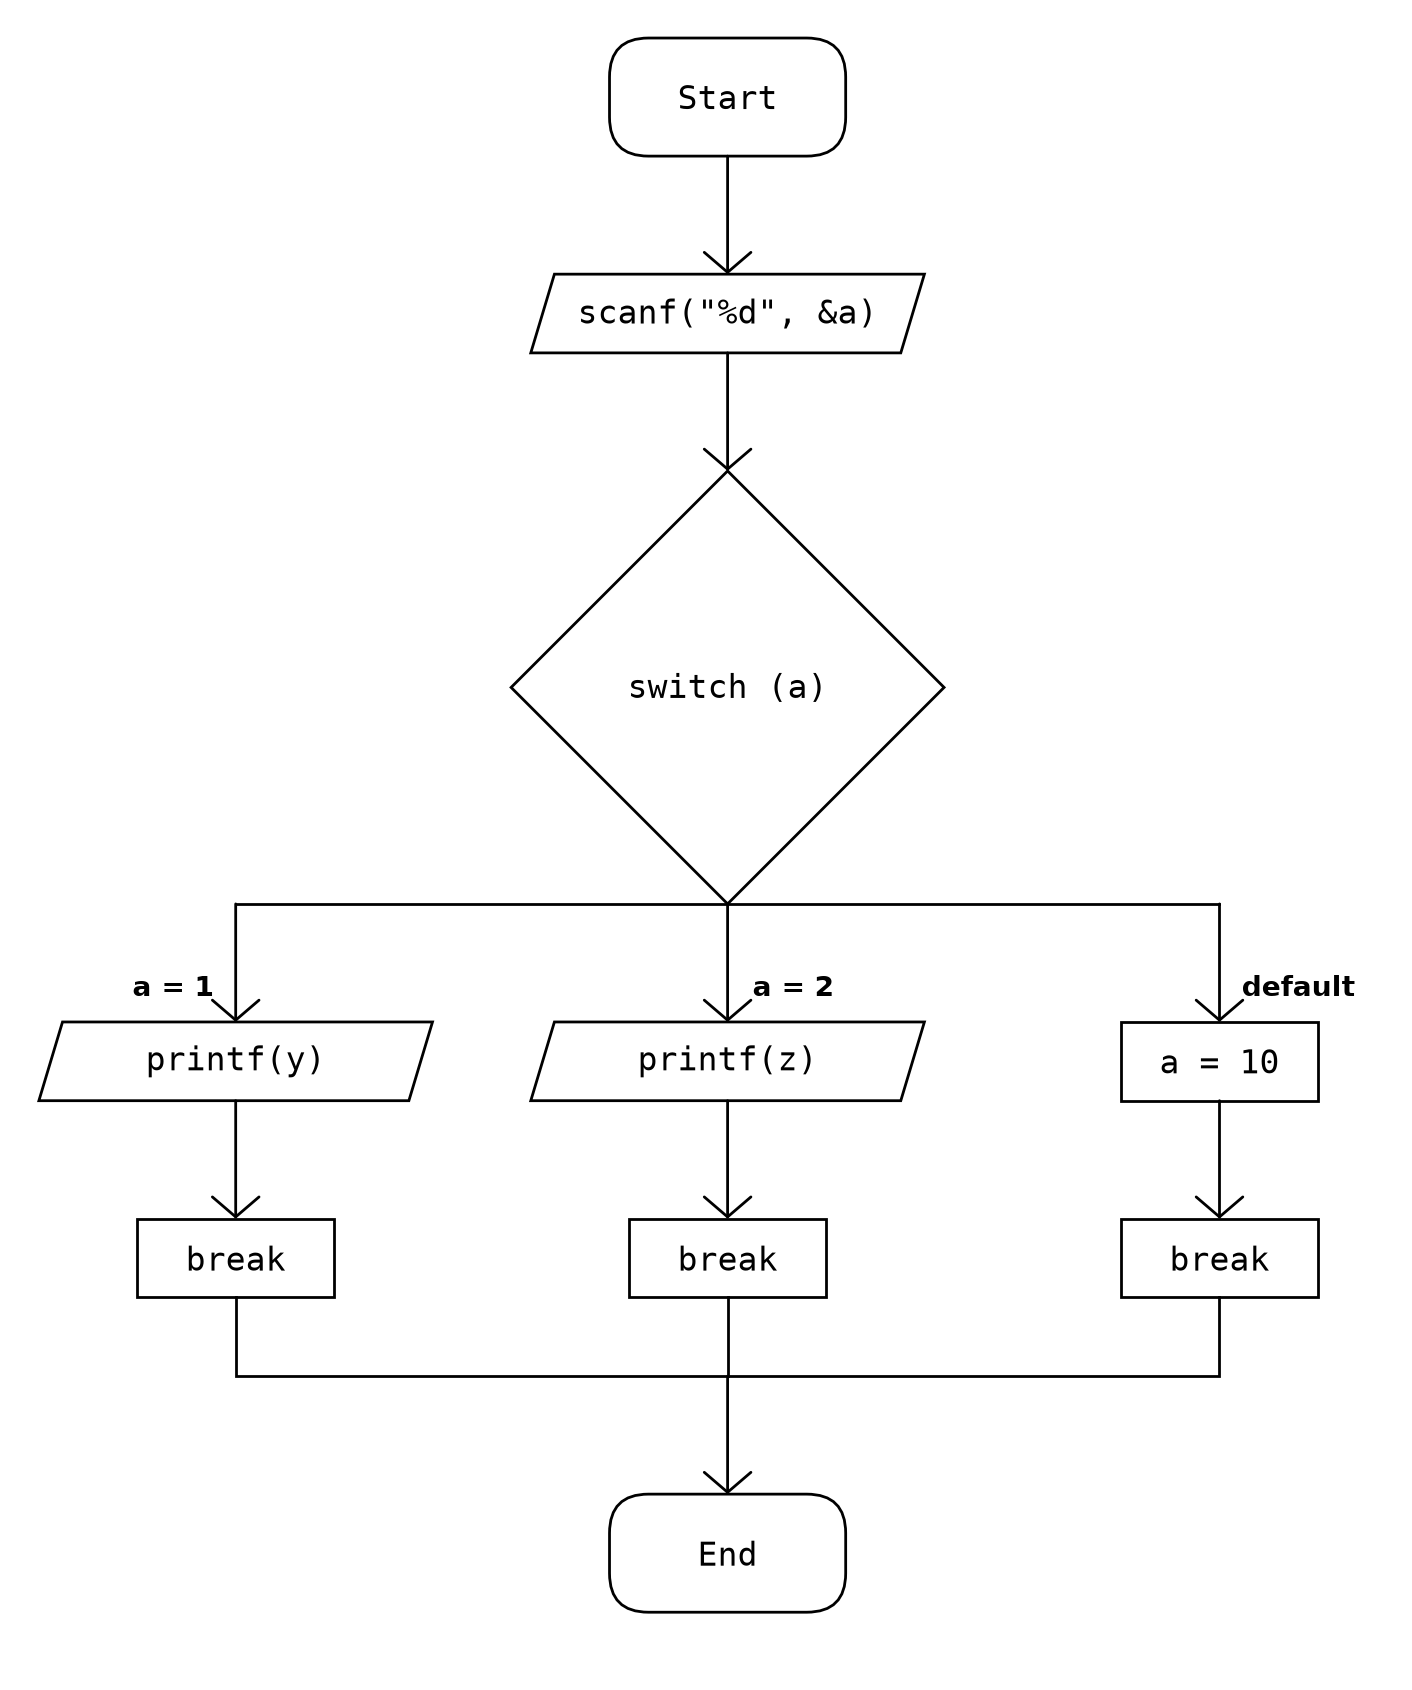
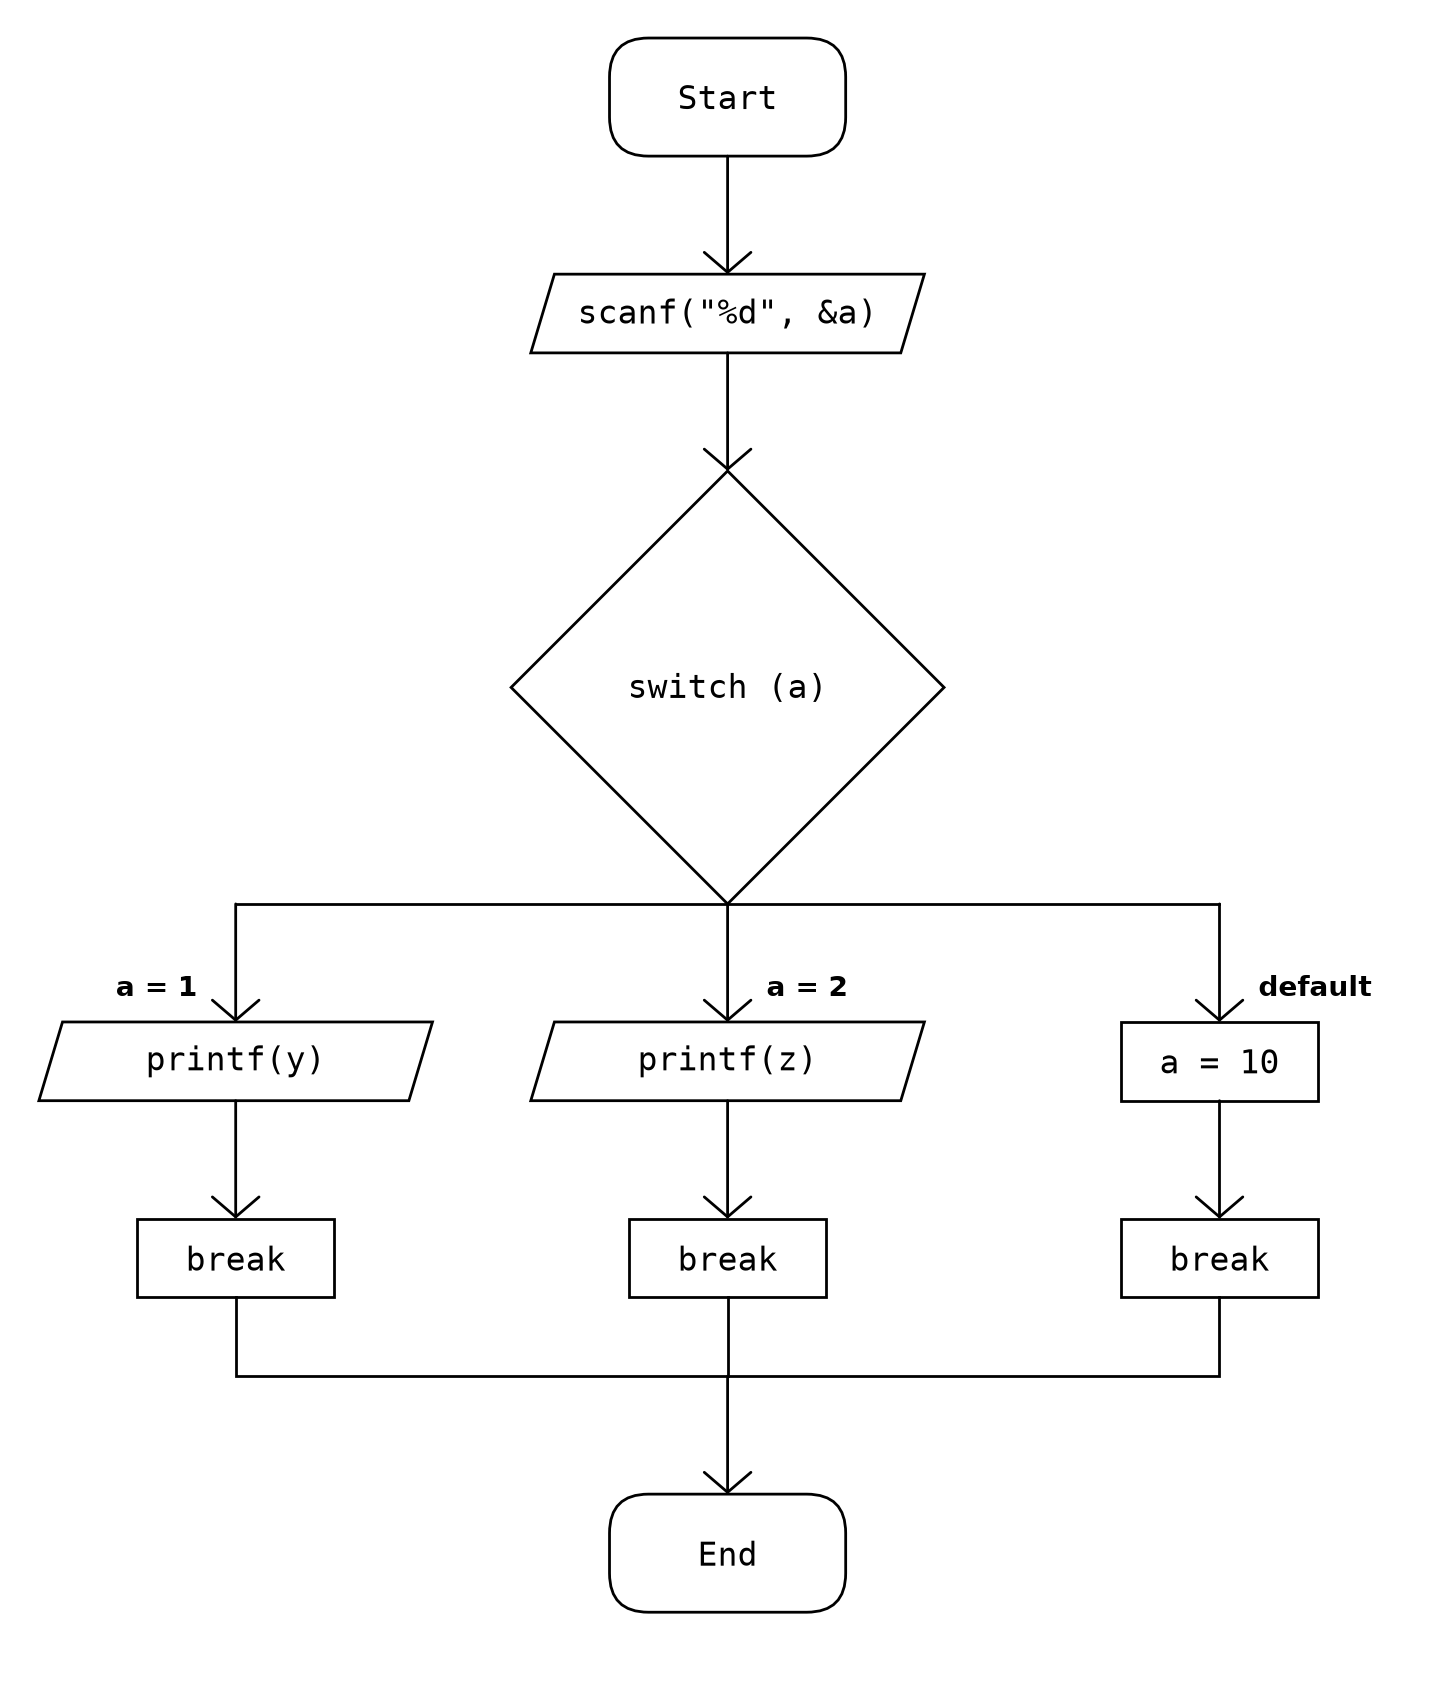
подписи кейсов: отступ от линии спуска 14pt — не липнут к наконечнику стрелки

diff --git a/gostpadi.py b/gostpadi.py
@@ -118,11 +118,11 @@ class Style:
     # качество и подписи
     dpi: int = 200                # плотность пикселей
     edge_lw: float = 1.0          # толщина всех линий и рамок (тонкая, 0.35 мм)
-    label_dx: float = 8.0         # отступ подписи кейса от линии спуска
+    label_dx: float = 14.0        # отступ подписи кейса от линии спуска
     label_dy: float = 12.0        # подпись: над плиткой / под углом ромба
     label_exit_dx: float = grid * 2  # подпись да/нет: от вершины ромба по
     #                                 линии выхода, всегда одно и то же
-    label_axis_dx: float = 9.0    # подпись среднего кейса: от осевой линии
+    label_axis_dx: float = 14.0   # подпись среднего кейса: от осевой линии
     vertex_label_dy: float = 11.0 # подпись ветки «если»: над выходом ромба
     label_gap: float = 16.0       # шаг между подписями пустых веток
     letters: str = "АБВГДЕЖЗИКЛМНОПРСТУФХЦЧШЭЮЯ"  # кружки-соединители
